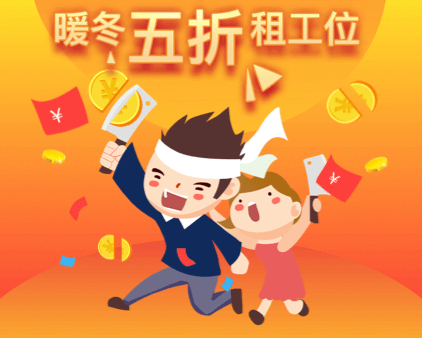
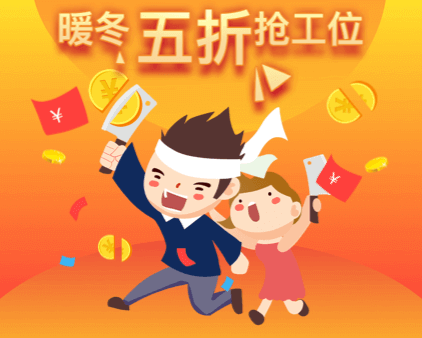
feat: 更换文案

Changed region(s): [[0.0924, 0.0, 0.8626, 0.355]]

diff --git a/src/pages/bargain/bargain.html b/src/pages/bargain/bargain.html
@@ -101,7 +101,7 @@
       <view class="wrap-top" bindtap="closePicker"></view>
       <view class="comPicker">
         <view class="picker-title">
-          选择您最优意向社区
+          选择您有意向的社区（可更换）
           <view class="btn-sure" bindtap="selectCom">确定</view>
         </view>
         <picker-view indicator-style="height: 800rpx;" style="width: 100%; height: 800rpx;" value="{{comIndex}}"
@@ -198,13 +198,11 @@
         <text class="size">50</text>
         元礼品券（直减），用于预订会议室或散座（无须入驻）；
       </view>
-      <view>2.帮砍后可在氪空间公众号领取更多大礼包（价值
-        <text class="size">1000</text>
-        元）；
-      </view>
+      <view>2.参与砍价，在氪空间订阅号可获得办公、招聘、美食、出行、住宿的“暖心福袋"</view>
       <view>3.帮砍不限总次数，但对每个发起人仅限帮砍一次</view>
       <view>4.助力人也可以发起砍价活动。</view>
-      <view>如有作弊、扰乱系统、网络攻击等违规行为，氪空间有权取消其活动所得并终止其参与资格；疑问请联系客服，活动最终解释权归氪空间所有。</view>
+
+      <view class="rule-type">如有作弊、扰乱系统、网络攻击等违规行为，氪空间有权取消其活动所得并终止其参与资格；疑问请联系客服，活动最终解释权归氪空间所有。</view>
     </view>
     <view class="rule-text" bindtap="closeRule">
       我知道了

diff --git a/src/pages/bargainFriend/bargainFriend.html b/src/pages/bargainFriend/bargainFriend.html
@@ -163,13 +163,11 @@
         <text class="size">50</text>
         元礼品券（直减），用于预订会议室或散座（无须入驻）；
       </view>
-      <view>2.帮砍后可在氪空间公众号领取更多大礼包（价值
-        <text class="size">1000</text>
-        元）；
-      </view>
+      <view>2.参与砍价，在氪空间订阅号可获得办公、招聘、美食、出行、住宿的“暖心福袋"</view>
       <view>3.帮砍不限总次数，但对每个发起人仅限帮砍一次</view>
       <view>4.助力人也可以发起砍价活动。</view>
-      <view>如有作弊、扰乱系统、网络攻击等违规行为，氪空间有权取消其活动所得并终止其参与资格；疑问请联系客服，活动最终解释权归氪空间所有。</view>
+
+      <view class="rule-type">如有作弊、扰乱系统、网络攻击等违规行为，氪空间有权取消其活动所得并终止其参与资格；疑问请联系客服，活动最终解释权归氪空间所有。</view>
     </view>
     <view class="rule-text" bindtap="closeRule">
       我知道了

diff --git a/src/pages/bargainIndex/bargainIndex.html b/src/pages/bargainIndex/bargainIndex.html
@@ -3,7 +3,7 @@
 
 <view class="bargain-index" >
   <image src="{{KrImgUrl}}bargainActivity/bgs.jpg" alt="" class="index-bg"></image>
-  <view class="button-act" bindtap="goActivity">去砍价</view>
+  <view class="button-act" bindtap="goActivity">我要5折工位</view>
   <button wx:if="{{!hasUserInfo && hasLoadUserInfo}}" catchtouchmove="ture" open-type="getUserInfo"
         lang="zh_CN"
         bindgetuserinfo="onGotUserInfo"

diff --git a/src/pages/bargain/bargain.js b/src/pages/bargain/bargain.js
@@ -30,11 +30,11 @@ Page({
     objectList: [
       {
         id: 215,
-        name: '北京·霄云路社区'
+        name: '北京·霄云路'
       },
       {
         id: 179,
-        name: '北京·王府井银泰社区'
+        name: '北京·王府井银泰'
       },
       {
         id: 181,
